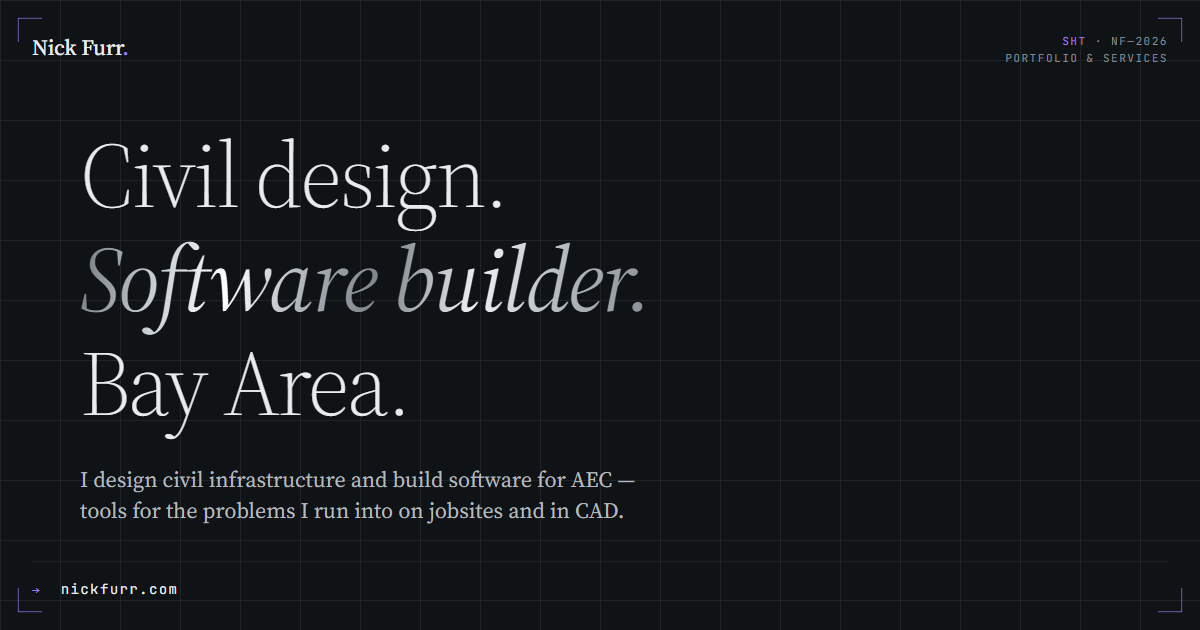
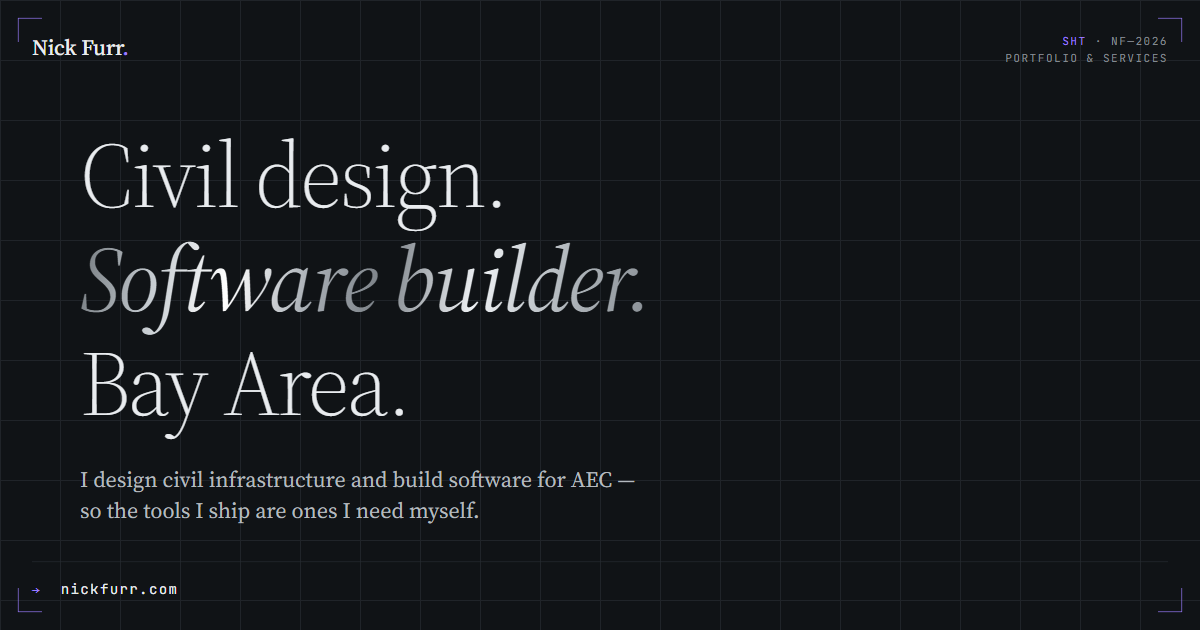
fix: de-duplicate "jobsites and CAD", fix section-head grid placement
"jobsites and CAD" appeared in four display strings doing the same job.
The Selected Work lede keeps it — it's the most specific and sits
directly above the projects it justifies. The other three now each carry
a distinct idea:

- hero sub: why the tools fit, rather than where the problems come from
- Background: the arc (civil design first, software out of it)
- About h2: "Engineering, then software. Same discipline."

Also replaces the "4+ years" claim with "In AEC since 2016" — a start
date needs no maintenance and makes no full-time-vs-summers claim — and
drops the same stale number from the About heading.

Separately, .section-head is a 220px/1fr grid with three children, so
auto-placement put the heading block in the narrow index column with
~900px empty beside it. Pins it to column 2, reset to column 1 at the
900px breakpoint. Affected every section heading.

Changed region(s): [[0.0617, 0.7841, 0.5242, 0.8444]]

diff --git a/index.html b/index.html
@@ -243,6 +243,8 @@
     margin-bottom: 56px;
     align-items: baseline;
   }
+  /* heading block belongs beside the index, not under it in the 220px column */
+  .section-head > div { grid-column: 2; }
   /* Engineering-drawing numerals — used ONLY on section indices.
      Restrained typographic signal of "plan set" without theme-park. */
   .section-num {
@@ -904,6 +906,7 @@
     #hero { padding: 80px 0 64px; }
     .hero-meta { grid-template-columns: 1fr; gap: 24px; }
     .section-head { grid-template-columns: 1fr; gap: 12px; margin-bottom: 40px; }
+    .section-head > div { grid-column: 1; }
     .work-item { grid-template-columns: 1fr; gap: 16px; padding: 32px 0; }
     .work-detail { grid-template-columns: 1fr; gap: 20px; }
     .work-feature .feature-header { grid-template-columns: 1fr; gap: 16px; }
@@ -986,12 +989,12 @@ footer a:hover{color:#e9ecef;}
       <h1 class="hero-lede">
         Civil design. <em>Software builder.</em> Bay Area.
       </h1>
-      <p class="hero-sub">I design civil infrastructure and build software for AEC — tools for the problems I run into on jobsites and in CAD.</p>
+      <p class="hero-sub">I design civil infrastructure and build software for AEC — so the tools I ship are ones I need myself.</p>
 
       <div class="hero-meta">
         <div class="meta-block">
           <span class="eyebrow">Background</span>
-          <p style="margin-top:10px">4+ years on jobsites and in CAD — Nibbi Bros, Westland Group, BKF Engineers — before I shipped my first production app. Now I build the tools I wish I'd had.</p>
+          <p style="margin-top:10px">In AEC since 2016 — Nibbi Bros, Westland Group, BKF Engineers. Civil design first; the software grew out of it.</p>
         </div>
         <div class="meta-block">
           <span class="eyebrow">Currently</span>
@@ -1246,7 +1249,7 @@ footer a:hover{color:#e9ecef;}
       <span class="section-num">02<span class="slash">/</span><span class="total">03</span></span>
       <span class="eyebrow">About</span>
       <div>
-        <h2>4+ years in infrastructure. Five in software. Same discipline.</h2>
+        <h2>Engineering, then software. Same discipline.</h2>
       </div>
     </div>
 

diff --git a/og.html b/og.html
@@ -165,7 +165,7 @@
       <h1 class="og-lede">
         Civil design.<br/><em>Software builder.</em><br/>Bay Area.
       </h1>
-      <p class="og-sub">I design civil infrastructure and build software for AEC — tools for the problems I run into on jobsites and in CAD.</p>
+      <p class="og-sub">I design civil infrastructure and build software for AEC — so the tools I ship are ones I need myself.</p>
     </div>
 
     <div class="og-foot">
